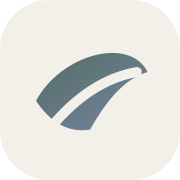
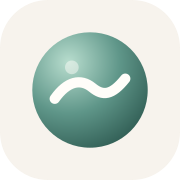
refine focus player controls and branding

diff --git a/tests/e2e/app.spec.ts b/tests/e2e/app.spec.ts
@@ -15,6 +15,7 @@ test('loads the complete focus player without browser errors', async ({ page }) 
   })
 
   await expect(page.getByRole('heading', { name: 'Find your quiet.' })).toBeVisible()
+  await expect(page.getByRole('link', { name: 'Chillax home' }).locator('svg')).toBeVisible()
   await expect(page.getByRole('button', { name: 'Start focus session' })).toBeEnabled()
   await expect(page.getByLabel('60:00 remaining')).toBeVisible()
   await expect(page.getByRole('button', { name: /Deep Work/ })).toHaveAttribute('aria-pressed', 'true')
@@ -26,6 +27,10 @@ test('loads the complete focus player without browser errors', async ({ page }) 
 test('plays, changes soundscape, pauses, and remembers choices', async ({ page }) => {
   await page.getByRole('button', { name: /Flow/ }).click()
   await page.getByRole('button', { name: /Strong: Fuller/ }).click()
+  const volumeSlider = page.getByRole('slider', { name: 'Soundscape volume' })
+  await expect(volumeSlider).toHaveAttribute('max', '1')
+  await volumeSlider.fill('1')
+  await expect(page.getByLabel('Volume 100 percent')).toBeVisible()
   await page.getByRole('button', { name: 'Custom' }).click()
   const customDialog = page.getByRole('dialog', { name: 'Set your rhythm.' })
   await customDialog.getByRole('spinbutton', { name: /Session length/ }).fill('25')
@@ -42,6 +47,7 @@ test('plays, changes soundscape, pauses, and remembers choices', async ({ page }
   await page.reload()
   await expect(page.getByRole('button', { name: /Flow/ })).toHaveAttribute('aria-pressed', 'true')
   await expect(page.getByRole('button', { name: /Strong: Fuller/ })).toHaveAttribute('aria-pressed', 'true')
+  await expect(page.getByLabel('Volume 100 percent')).toBeVisible()
   await expect(page.getByRole('button', { name: 'Custom' })).toHaveAttribute('aria-pressed', 'true')
   await expect(page.getByText('Session paused', { exact: true })).toBeVisible()
 })
@@ -172,7 +178,7 @@ test('configures and restores a complete Pomodoro cycle', async ({ page }) => {
 
   await expect(page.getByLabel('30:00 remaining')).toBeVisible()
   await expect(page.getByText('Focus 1 of 3', { exact: true })).toBeVisible()
-  await expect(page.getByText('30 focus / 7 short / 20 long / every 3', { exact: true })).toBeVisible()
+  await expect(page.getByText('30 focus / 7 short / 20 long / every 3', { exact: true })).toHaveCount(0)
   await page.getByRole('button', { name: 'Start focus session' }).click()
   await expect(page.getByRole('button', { name: 'Pause focus session' })).toBeVisible()
   await page.getByRole('button', { name: 'Pause focus session' }).click()
@@ -185,6 +191,11 @@ test('configures and restores a complete Pomodoro cycle', async ({ page }) => {
 
 test('shows complete controls without truncation at the reported layout size', async ({ page }) => {
   await page.setViewportSize({ width: 718, height: 640 })
+
+  await expect(page.locator('.session-selector__summary')).toHaveCount(0)
+  expect(await page.locator('.visual-panel').evaluate((element) =>
+    getComputedStyle(element, '::after').content,
+  )).toBe('none')
 
   for (const name of ['60 minutes', 'Infinite', 'Custom']) {
     const button = page.getByRole('button', { name })

diff --git a/src/styles.css b/src/styles.css
@@ -188,27 +188,24 @@ html[data-theme="dark"] .app {
   gap: 11px;
   align-items: center;
   color: var(--ink);
-  font-size: 19px;
+  font-size: 20px;
   font-weight: 760;
-  letter-spacing: -0.035em;
+  letter-spacing: -0.045em;
   text-decoration: none;
 }
 
 .brand__mark {
   display: grid;
-  width: 34px;
-  height: 34px;
+  width: 36px;
+  height: 36px;
   place-items: center;
-  overflow: hidden;
-  color: var(--accent-ink);
-  background: linear-gradient(145deg, var(--accent-strong), var(--accent));
-  border-radius: 12px;
-  box-shadow: 0 8px 22px rgb(159 79 188 / 22%);
+  flex: 0 0 auto;
 }
 
 .brand__mark svg {
-  width: 25px;
-  height: 25px;
+  width: 36px;
+  height: 36px;
+  filter: drop-shadow(0 8px 11px rgb(37 79 71 / 20%));
 }
 
 .header-actions {
@@ -311,16 +308,6 @@ html[data-theme="dark"] .visual-panel {
     radial-gradient(circle at 78% 21%, rgb(255 255 255 / 22%) 0 1px, transparent 1.5px),
     radial-gradient(circle at 42% 76%, rgb(178 82 208 / 19%), transparent 16rem),
     linear-gradient(165deg, #26102f 0%, #120719 100%);
-}
-
-.visual-panel::after {
-  position: absolute;
-  inset: auto -8% -26% 24%;
-  height: 42%;
-  content: "";
-  pointer-events: none;
-  background: linear-gradient(145deg, transparent 20%, rgb(178 82 208 / 8%) 21% 48%, transparent 49%);
-  transform: skewY(-8deg);
 }
 
 .visual-panel__topline {
@@ -689,25 +676,6 @@ html[data-theme="dark"] .visual-panel {
   color: var(--ink);
   background: var(--surface-raised);
   box-shadow: 0 3px 10px rgb(20 12 22 / 8%);
-}
-
-.session-selector__summary {
-  display: flex;
-  gap: 8px;
-  align-items: center;
-  min-height: 18px;
-  margin: 9px 4px 0;
-  color: var(--ink-faint);
-  font-size: 9px;
-  line-height: 1.4;
-}
-
-.session-selector__summary span {
-  width: 6px;
-  height: 6px;
-  flex: 0 0 auto;
-  background: var(--accent);
-  border-radius: 999px;
 }
 
 .volume-control__row {

diff --git a/src/App.test.tsx b/src/App.test.tsx
@@ -52,7 +52,7 @@ describe('Chillax app', () => {
     expect(screen.getByRole('button', { name: /Standard: Balanced/ })).toHaveAttribute('aria-pressed', 'true')
     expect(screen.getByRole('button', { name: '60 minutes' })).toHaveAttribute('aria-pressed', 'true')
     expect(screen.getByLabelText('60:00 remaining')).toBeInTheDocument()
-    expect(screen.getByText('One uninterrupted hour')).toBeInTheDocument()
+    expect(screen.queryByText('One uninterrupted hour')).not.toBeInTheDocument()
   })
 
   it('changes and persists the selected soundscape, texture, and session', async () => {
@@ -133,7 +133,7 @@ describe('Chillax app', () => {
 
     expect(screen.queryByRole('dialog')).not.toBeInTheDocument()
     expect(screen.getByLabelText('120:00 remaining')).toBeInTheDocument()
-    expect(screen.getByText('120 minute custom session')).toBeInTheDocument()
+    expect(screen.queryByText('120 minute custom session')).not.toBeInTheDocument()
 
     fireEvent.click(screen.getByRole('button', { name: 'Mute soundscape' }))
     expect(audioMocks.setVolume).toHaveBeenLastCalledWith(0)
@@ -165,7 +165,7 @@ describe('Chillax app', () => {
     expect(screen.getByLabelText('30:00 remaining')).toBeInTheDocument()
     expect(screen.getByText('Focus 1 of 3')).toBeInTheDocument()
     expect(screen.getByText('Focus session ready')).toBeInTheDocument()
-    expect(screen.getByText('30 focus / 7 short / 20 long / every 3')).toBeInTheDocument()
+    expect(screen.queryByText('30 focus / 7 short / 20 long / every 3')).not.toBeInTheDocument()
 
     await waitFor(() => {
       const saved = JSON.parse(window.localStorage.getItem(STORAGE_KEY) ?? '{}')

diff --git a/src/audio/__tests__/FocusAudioEngine.test.ts b/src/audio/__tests__/FocusAudioEngine.test.ts
@@ -146,6 +146,7 @@ class MockAudioContext {
   state: AudioContextState = 'suspended'
   currentTime = 10
   readonly destination = new MockAudioNode()
+  readonly compressors: MockCompressorNode[] = []
   readonly gains: MockGainNode[] = []
   readonly filters: MockBiquadFilterNode[] = []
   readonly mediaSources: MockMediaElementAudioSourceNode[] = []
@@ -163,7 +164,9 @@ class MockAudioContext {
   }
 
   createDynamicsCompressor(): MockCompressorNode {
-    return new MockCompressorNode()
+    const node = new MockCompressorNode()
+    this.compressors.push(node)
+    return node
   }
 
   createBiquadFilter(): MockBiquadFilterNode {
@@ -262,6 +265,18 @@ describe('FocusAudioEngine', () => {
     expect(MockAudioContext.instances[0].audioWorklet.addModule).toHaveBeenCalledTimes(1)
     expect(MockAudioWorkletNode.instances).toHaveLength(1)
     expect(engine.getState()).toMatchObject({ isReady: true, isPlaying: true, volume: 1 })
+
+    const context = MockAudioContext.instances[0]
+    const masterGain = context.gains[0].gain
+    expect(context.compressors[0].threshold.value).toBe(-16)
+    expect(context.compressors[0].ratio.value).toBe(16)
+    engine.setVolume(0.76)
+    expect(engine.getState().volume).toBe(0.76)
+    expect(masterGain.ramps.at(-1)?.target).toBeCloseTo(0.5472)
+
+    engine.setVolume(1)
+    expect(engine.getState().volume).toBe(1)
+    expect(masterGain.ramps.at(-1)?.target).toBe(0.72)
 
     engine.setVolume(Number.NaN)
     expect(engine.getState().volume).toBe(0)

diff --git a/src/components/Icons.tsx b/src/components/Icons.tsx
@@ -12,14 +12,32 @@ const iconProps = {
   viewBox: '0 0 24 24',
 } as const
 
-export function LeafMark(props: IconProps) {
+export function ChillaxMark(props: IconProps) {
   return (
-    <svg {...iconProps} {...props} viewBox="0 0 32 32">
+    <svg {...iconProps} {...props} viewBox="0 0 64 64">
+      <defs>
+        <radialGradient
+          id="chillax-orb-gradient"
+          cx="0"
+          cy="0"
+          r="1"
+          gradientTransform="translate(22 19) rotate(45) scale(50)"
+          gradientUnits="userSpaceOnUse"
+        >
+          <stop stop-color="#b8ddce" />
+          <stop offset="0.48" stop-color="#5f9689" />
+          <stop offset="1" stop-color="#254f47" />
+        </radialGradient>
+      </defs>
+      <circle cx="32" cy="32" fill="url(#chillax-orb-gradient)" r="27" />
       <path
-        d="M5.5 18.4C9.1 8.9 22.3 6.1 27 11.2c-5.1 1.3-8.7 4.9-10.5 10.7-4 .6-8.3-.6-11-3.5Z"
-        fill="currentColor"
+        d="M15.5 36.1C21.3 27.9 27.6 26.4 33.1 30.9C38 34.9 42.2 34.6 48.5 26.7"
+        fill="none"
+        stroke="#fffdf9"
+        stroke-linecap="round"
+        stroke-width="4.8"
       />
-      <path d="M8.6 23.2c4.6-5.6 9.7-9.1 16.3-11" stroke="white" stroke-linecap="round" stroke-width="1.8" />
+      <circle cx="23.5" cy="21.4" fill="#fffdf9" opacity="0.46" r="3.2" />
     </svg>
   )
 }

diff --git a/src/components/SessionSelector.tsx b/src/components/SessionSelector.tsx
@@ -1,26 +1,16 @@
 import type { Ref } from 'preact'
-import type { PomodoroConfig, SessionChoice, SessionPlanV1 } from '../types'
+import type { SessionChoice, SessionPlanV1 } from '../types'
 
 interface SessionSelectorProps {
   plan: SessionPlanV1
-  pomodoroConfig: PomodoroConfig
   disabled?: boolean
   customButtonRef?: Ref<HTMLButtonElement>
   onOpenCustom: () => void
   onSelect: (choice: Exclude<SessionChoice, 'custom'>) => void
 }
 
-const getPlanSummary = (plan: SessionPlanV1, pomodoroConfig: PomodoroConfig) => {
-  if (plan.choice === 'sixty') return 'One uninterrupted hour'
-  if (plan.choice === 'endless') return 'Count up without a finish time'
-  if (plan.customMode === 'duration') return `${plan.customDurationMinutes} minute custom session`
-
-  return `${pomodoroConfig.workMinutes} focus / ${pomodoroConfig.shortBreakMinutes} short / ${pomodoroConfig.longBreakMinutes} long / every ${pomodoroConfig.focusSessionsBeforeLongBreak}`
-}
-
 export function SessionSelector({
   plan,
-  pomodoroConfig,
   disabled = false,
   customButtonRef,
   onOpenCustom,
@@ -57,10 +47,6 @@ export function SessionSelector({
           Custom
         </button>
       </div>
-      <p class="session-selector__summary">
-        <span aria-hidden="true" />
-        {getPlanSummary(plan, pomodoroConfig)}
-      </p>
     </fieldset>
   )
 }

diff --git a/src/App.tsx b/src/App.tsx
@@ -52,7 +52,7 @@ const POMODORO_PHASE_NAMES: Readonly<Record<PomodoroPhase, string>> = {
   'long-break': 'Long break',
 }
 
-const clampVolume = (volume: number) => Math.max(0, Math.min(0.75, volume))
+const clampVolume = (volume: number) => Math.max(0, Math.min(1, volume))
 
 const formatTimer = (milliseconds: number, countUp: boolean) => {
   const totalSeconds = countUp
@@ -327,7 +327,7 @@ export function App() {
 
   const handleToggleMute = useCallback(() => {
     const nextVolume = preferences.volume === 0
-      ? Math.max(0.1, Math.min(0.75, preferences.previousVolume))
+      ? Math.max(0.1, Math.min(1, preferences.previousVolume))
       : 0
     setPreferences((current) => ({
       ...current,
@@ -501,7 +501,6 @@ export function App() {
                   onOpenCustom={openCustomSession}
                   onSelect={handleSessionSelect}
                   plan={sessionPlan}
-                  pomodoroConfig={pomodoroState.config}
                 />
                 <IntensitySelector
                   disabled={audioIsBusy}

diff --git a/src/components/VolumeControl.test.tsx b/src/components/VolumeControl.test.tsx
@@ -1,0 +1,29 @@
+import { fireEvent, render, screen } from '@testing-library/preact'
+import { describe, expect, it, vi } from 'vitest'
+import { VolumeControl } from './VolumeControl'
+
+describe('VolumeControl', () => {
+  it('exposes the full 0 to 100 percent range without a dead zone', () => {
+    const onChange = vi.fn()
+
+    render(
+      <VolumeControl
+        onChange={onChange}
+        onToggleMute={vi.fn()}
+        value={1}
+      />,
+    )
+
+    const slider = screen.getByRole('slider', { name: 'Soundscape volume' })
+    expect(slider).toHaveAttribute('min', '0')
+    expect(slider).toHaveAttribute('max', '1')
+    expect(slider).toHaveAttribute('step', '0.01')
+    expect(screen.getByLabelText('Volume 100 percent')).toHaveTextContent('100')
+
+    fireEvent.input(slider, { target: { value: '0.76' } })
+    fireEvent.input(slider, { target: { value: '1' } })
+
+    expect(onChange).toHaveBeenNthCalledWith(1, 0.76)
+    expect(onChange).toHaveBeenNthCalledWith(2, 1)
+  })
+})

diff --git a/src/components/VolumeControl.tsx b/src/components/VolumeControl.tsx
@@ -27,7 +27,7 @@ export function VolumeControl({ value, disabled = false, onChange, onToggleMute 
           <span class="sr-only">Soundscape volume</span>
           <input
             disabled={disabled}
-            max="0.75"
+            max="1"
             min="0"
             onInput={(event) => onChange(Number(event.currentTarget.value))}
             step="0.01"

diff --git a/src/components/Brand.tsx b/src/components/Brand.tsx
@@ -1,10 +1,10 @@
-import { LeafMark } from './Icons'
+import { ChillaxMark } from './Icons'
 
 export function Brand() {
   return (
     <a class="brand" href="/" aria-label="Chillax home">
       <span class="brand__mark">
-        <LeafMark />
+        <ChillaxMark />
       </span>
       <span class="brand__word">Chillax</span>
     </a>

diff --git a/src/lib/storage.test.ts b/src/lib/storage.test.ts
@@ -100,6 +100,8 @@ describe('versioned local storage', () => {
       ...DEFAULT_PREFERENCES,
       preset: 'flow' as const,
       durationMinutes: 90,
+      volume: 1,
+      previousVolume: 1,
     }
 
     expect(saveTimerState(timer, storage)).toBe(true)
